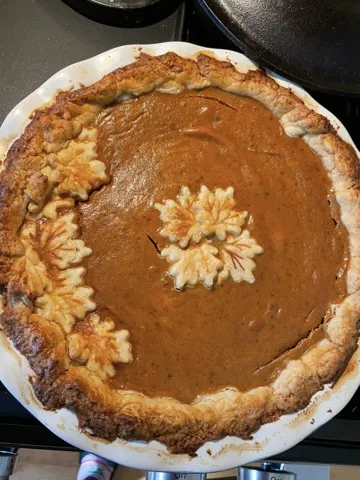
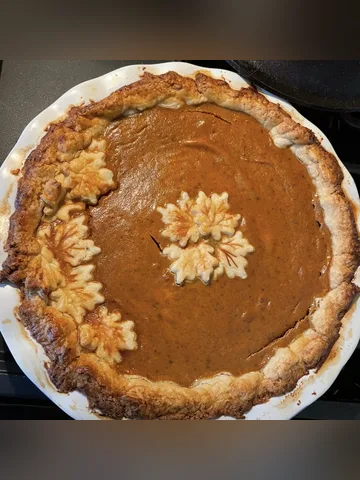
blog: show the whole pumpkin pie in the thumbnail and link preview
Claude-Session: https://claude.ai/code/session_01Gfnnd56tMRKdgR1HZNSrBo

diff --git a/blog/thanksgiving-2026-recipes.html b/blog/thanksgiving-2026-recipes.html
@@ -13,7 +13,7 @@
 <meta property="og:title" content="Thanksgiving 2026 Recipes: Sides &amp; Pies">
 <meta property="og:description" content="Thanksgiving 2026 sides and pies: Japanese milk buns, apple pie, pumpkin pie, one easy crust for both, hot cranberry cider, and Brussels sprouts slaw.">
 <meta property="og:url" content="https://amysterling.org/blog/thanksgiving-2026-recipes.html">
-<meta property="og:image" content="https://amysterling.org/media/blog/2026/thanksgiving-og.jpg">
+<meta property="og:image" content="https://amysterling.org/media/blog/2026/thanksgiving-preview.jpg">
 <meta property="og:image:width" content="1200">
 <meta property="og:image:height" content="628">
 <meta property="og:image:alt" content="A homemade pumpkin pie decorated with maple-leaf pastry cutouts">
@@ -22,7 +22,7 @@
 <meta name="twitter:card" content="summary_large_image">
 <meta name="twitter:title" content="Thanksgiving 2026 Recipes: Sides &amp; Pies">
 <meta name="twitter:description" content="Thanksgiving 2026 sides and pies: Japanese milk buns, apple pie, pumpkin pie, one easy crust for both, hot cranberry cider, and Brussels sprouts slaw.">
-<meta name="twitter:image" content="https://amysterling.org/media/blog/2026/thanksgiving-og.jpg">
+<meta name="twitter:image" content="https://amysterling.org/media/blog/2026/thanksgiving-preview.jpg">
 <script type="application/ld+json">
 {
  "@context": "https://schema.org",
@@ -41,7 +41,7 @@
    "url": "https://amysterling.org/blog/thanksgiving-2026-recipes.html",
    "mainEntityOfPage": "https://amysterling.org/blog/thanksgiving-2026-recipes.html",
    "image": [
-    "https://amysterling.org/media/blog/2026/thanksgiving-og.jpg",
+    "https://amysterling.org/media/blog/2026/thanksgiving-preview.jpg",
     "https://amysterling.org/media/blog/2026/pumpkin-pie.webp"
    ],
    "datePublished": "2026-11-23",
